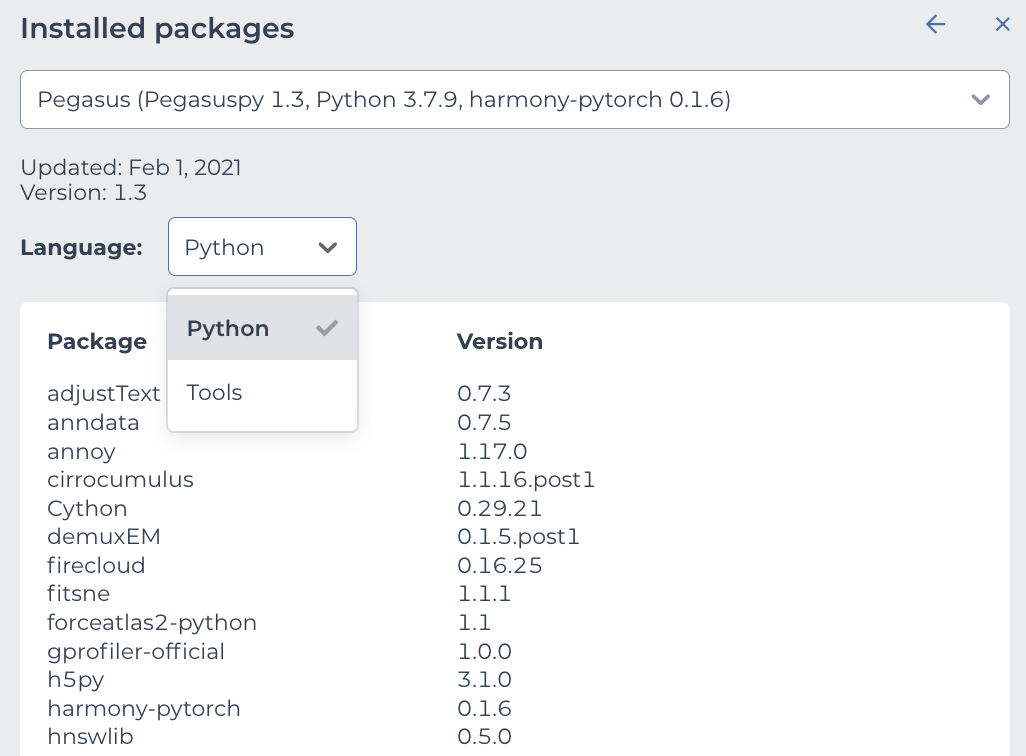
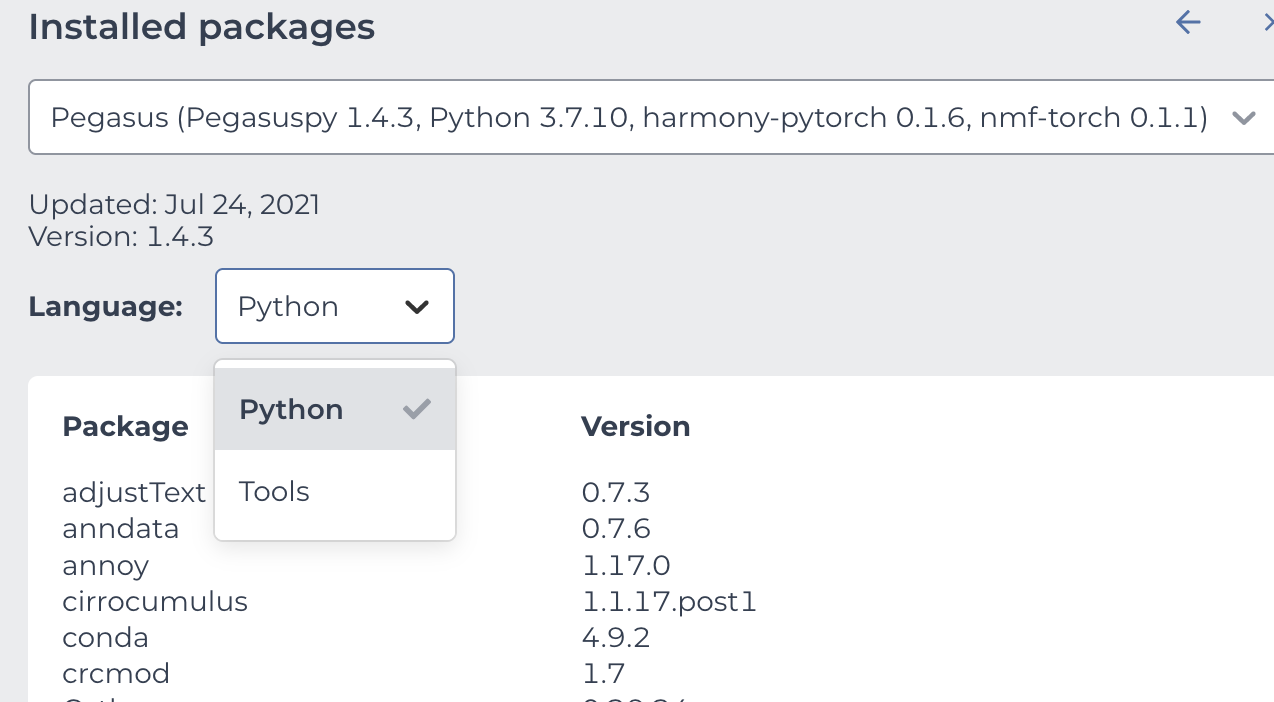
update terra notebook usage tutorial

diff --git a/docs/terra_notebook.rst b/docs/terra_notebook.rst
@@ -47,9 +47,11 @@ After that set other fields in the pop-out dialog:
 
 * In *Cloud compute profile* field, you can set the computing resources (CPUs and Memory size) you want to use.
 * In *Compute type* input, choose ``Standard VM``, as this is the cheapest type and is enough for using Pegasus.
+* **(NEW)** In case you need GPUs, select *Enable GPUs*, then choose *GPU type* and type in number of *GPUs* to use. Notice that only version 1.4.3 or later supports this GPU mode.
 * In *Persistent disk size (GB)* field, choose the size of the persistent disk for your cloud environment.
   This disk space by default remains after you delete your cloud environment (unless you choose to delete the persistent disk as well),
   but it costs even if you stop your cloud environment.
+
 
 Now click the ``CREATE`` button to start the creation. After waiting for 1-2 minutes, your cloud environment will be ready to use, and it's started automatically.
 
@@ -84,7 +86,7 @@ After creation, this cloud environment is associated with your Terra workspace. 
    :align: center
 
 
-2. Create Your Terra Notebook
+1. Create Your Terra Notebook
 ^^^^^^^^^^^^^^^^^^^^^^^^^^^^^^^
 
 In the **NOTEBOOKS** tab of your workspace, you can either create a blank notebook, or upload your local notebook.
